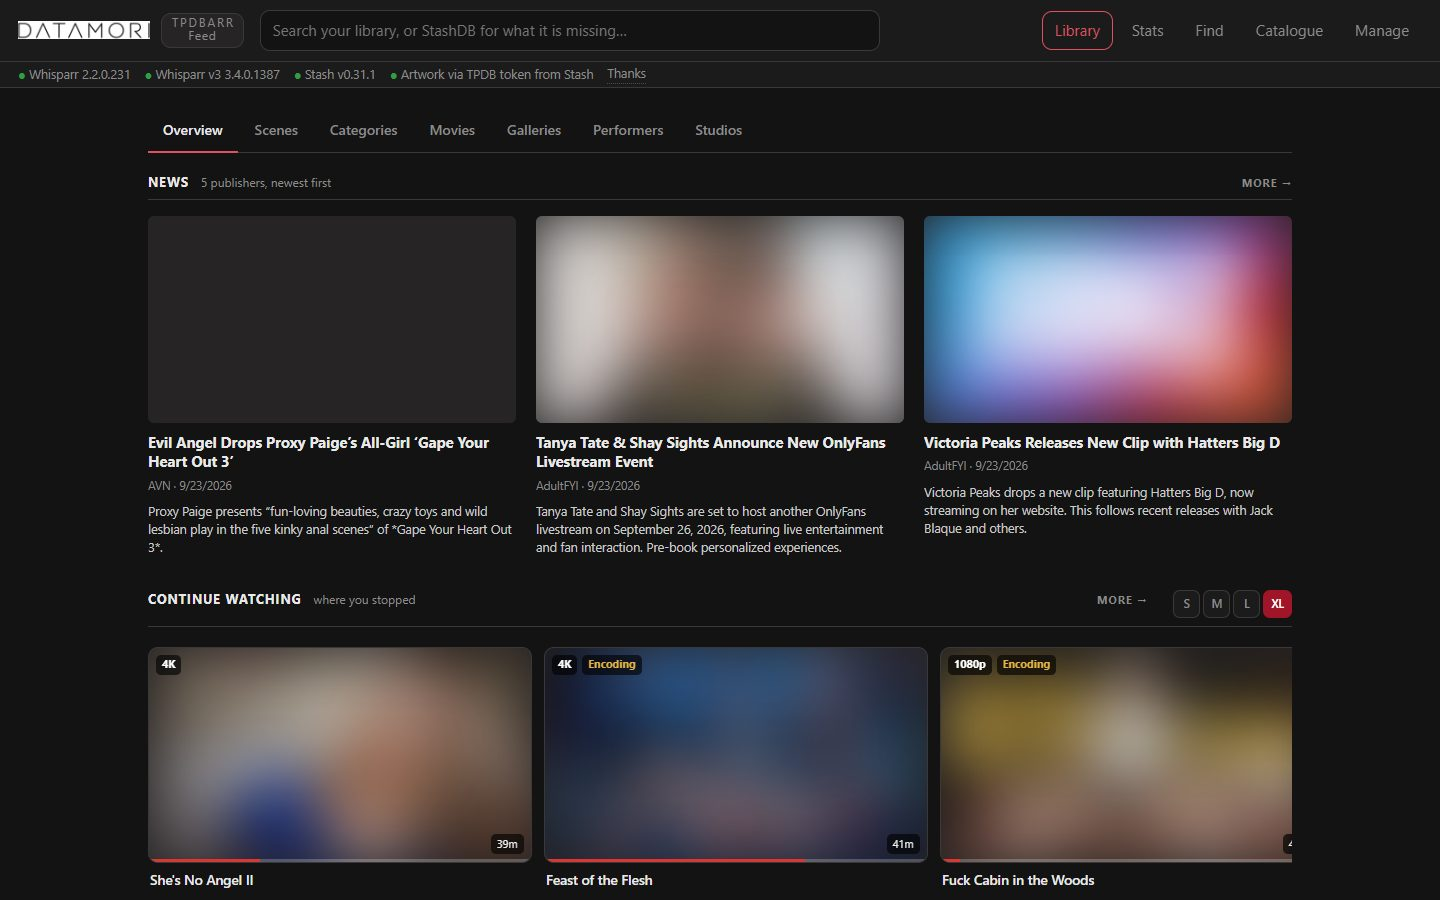
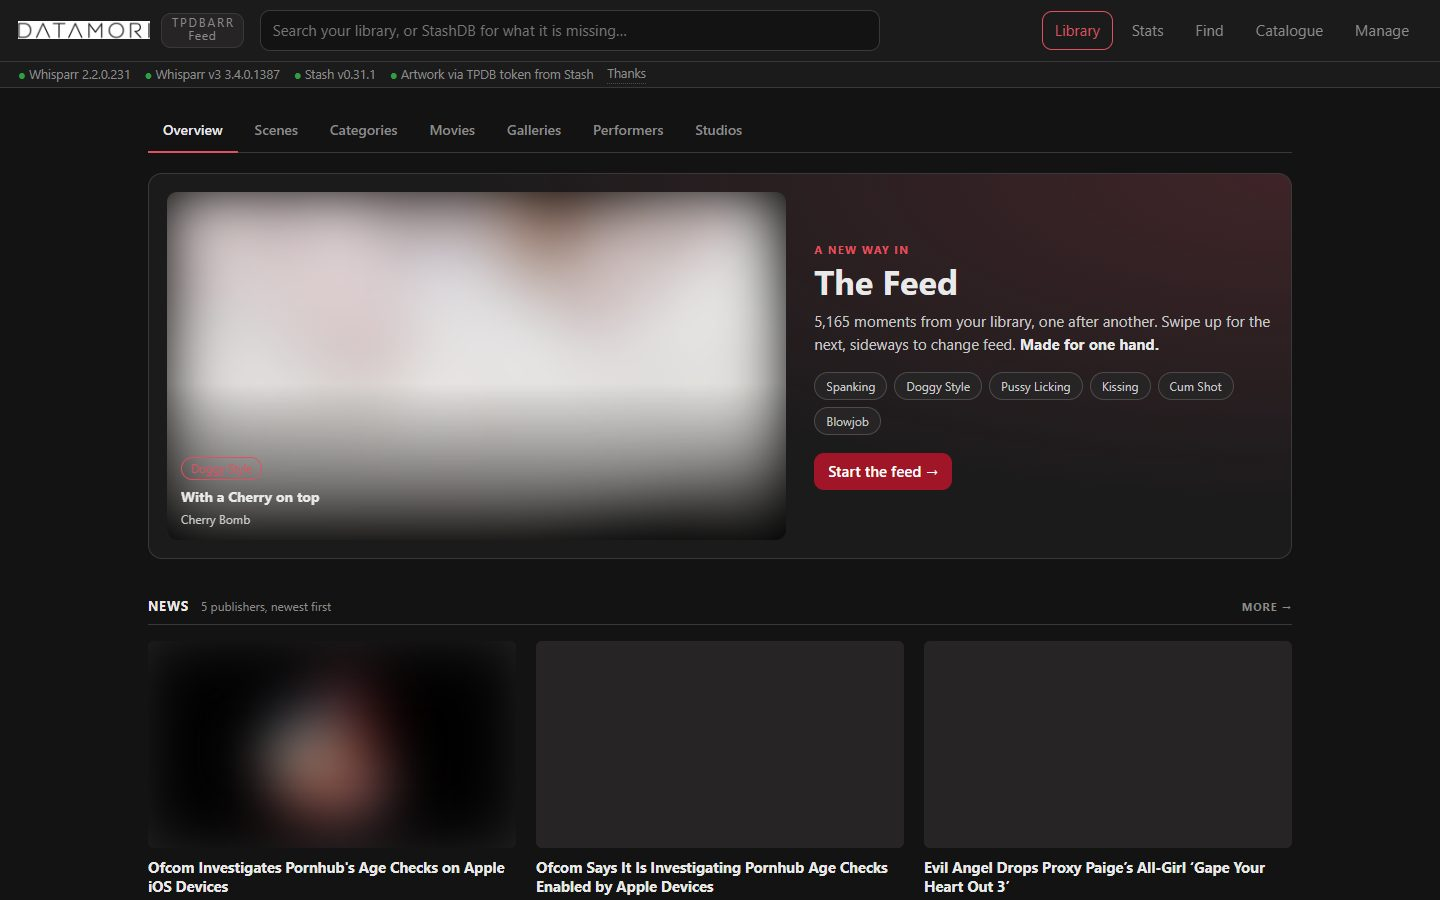
Overview: the Feed as the highlight, with a live preview of your markers

diff --git a/portal/public/library/overview.js b/portal/public/library/overview.js
@@ -44,6 +44,7 @@ export async function showOverview() {
     ];
 
     shell('#/library',
+      feedHero(),
       newsBand(),
       ordered.map(sceneSection)
     );
@@ -51,6 +52,96 @@ export async function showOverview() {
     if (!holds(mine)) return;
     failedIn('#/library', err);
   }
+}
+
+/* ------------------------------------------------------------- the feed
+ *
+ * The highlight, above even the news: the Feed is the new way into the
+ * library — the moments rather than the films, one after another, a thumb to
+ * move on — and a link in the top bar was not selling it.
+ *
+ * The preview is the real thing, muted: marker clips from the same endpoint
+ * the reel reads, each played for a few seconds and then swapped for the next.
+ * Ours first, Stash's if ours is not cut yet, and a clip that plays neither is
+ * skipped rather than left as a black box.
+ *
+ * Its timer outlives the render, so every tick checks the video is still on
+ * the page and stops for good when it is not. Leaving the Overview is the
+ * teardown; nothing has to remember to call one.
+ */
+const TEASE_MS = 6000;
+
+function feedHero() {
+  const video = el('video', { className: 'fhvideo', muted: true, playsInline: true, loop: true, autoplay: true });
+  video.muted = true;
+  const caption = el('div', { className: 'fhcaption' });
+  const count = el('span', {}, 'Your markers');
+  const chips = el('div', { className: 'fhchips' });
+
+  const go = (query = '') => { location.hash = '#/binge?feed=library' + query; };
+  const start = el('button', { className: 'primary fhstart', type: 'button' }, 'Start the feed ', el('span', {}, '→'));
+  start.onclick = () => go();
+
+  const screen = el('div', { className: 'fhscreen', title: 'Open the Feed' }, video, caption);
+  screen.onclick = () => go();
+
+  const hero = el('section', { className: 'feedhero' },
+    screen,
+    el('div', { className: 'fhtext' },
+      el('div', { className: 'fhkicker' }, 'A new way in'),
+      el('h2', { className: 'fhtitle' }, 'The Feed'),
+      el('p', { className: 'fhlede' },
+        count, ' from your library, one after another. Swipe up for the next, sideways to change feed. ',
+        el('b', {}, 'Made for one hand.')),
+      chips,
+      start)
+  );
+
+  const seed = String(Math.floor(Math.random() * 1e9));
+  Promise.all([
+    api(`/api/library/reel?feed=library&seed=${seed}&page=1`),
+    api('/api/library/reel/tags').catch(() => ({ tags: [] })),
+  ]).then(([reel, { tags }]) => {
+    const items = (reel.items || []).filter((i) => i.kind === 'marker');
+    if (reel.count) count.textContent = `${reel.count.toLocaleString()} moments`;
+    if (!items.length) { screen.remove(); return; }
+
+    // The tags this page of the shuffle is actually made of, most common first.
+    const ids = new Map(tags.map((t) => [t.name, t.id]));
+    const tally = new Map();
+    for (const i of items) if (ids.has(i.tag)) tally.set(i.tag, (tally.get(i.tag) || 0) + 1);
+    [...tally].sort((a, b) => b[1] - a[1]).slice(0, 6).forEach(([name]) => {
+      const chip = el('button', { className: 'fhchip', type: 'button' }, name);
+      chip.onclick = () => go('&tag=' + ids.get(name));
+      chips.append(chip);
+    });
+
+    let at = -1;
+    let timer = null;
+    const next = () => {
+      clearTimeout(timer);
+      if (!video.isConnected) return;
+      at = (at + 1) % items.length;
+      const item = items[at];
+      const fallback = `/media/scene/${item.sceneId}/marker/${item.id}/stream`;
+      video.onerror = () => {
+        if (video.getAttribute('src') !== fallback) video.src = fallback;
+        else next();
+      };
+      video.poster = `/media/scene/${item.sceneId}/marker/${item.id}/screenshot`;
+      video.src = `/media/marker/${item.id}/clip`;
+      video.play().catch(() => {});
+      caption.replaceChildren(
+        item.tag ? el('span', { className: 'fhtag' }, item.tag) : null,
+        el('span', { className: 'fhscene' }, item.scene?.title || ''),
+        el('span', { className: 'fhwho' }, (item.scene?.performers || []).map((p) => p.name).join(', '))
+      );
+      timer = setTimeout(next, TEASE_MS);
+    };
+    next();
+  }).catch(() => screen.remove());
+
+  return hero;
 }
 
 /* ------------------------------------------------------------------ news

diff --git a/portal/public/css/090-overview.css b/portal/public/css/090-overview.css
@@ -404,3 +404,97 @@ a.metric:hover { border-color: var(--accent-hi); }
 .candbody .meta { font-size: 11.5px; color: var(--muted); }
 .candbody .act { justify-content: center; }
 
+
+/* ------------------------------------------------------------ the feed
+ *
+ * The one thing on the Overview drawn big and in colour: the Feed, sold with
+ * itself. A screen of live marker clips on the left, the pitch on the right,
+ * stacked on a phone with the screen first — that is where it gets used.
+ */
+.feedhero {
+  display: grid;
+  grid-template-columns: minmax(0, 1.35fr) minmax(0, 1fr);
+  gap: 28px;
+  align-items: center;
+  margin: 4px 0 38px;
+  padding: 18px;
+  border: 1px solid var(--line);
+  border-radius: 14px;
+  background:
+    radial-gradient(120% 140% at 100% 0%, var(--accent-wash), transparent 60%),
+    var(--panel);
+}
+
+.fhscreen {
+  position: relative;
+  aspect-ratio: 16 / 9;
+  overflow: hidden;
+  border-radius: 10px;
+  background: #000;
+  cursor: pointer;
+}
+.fhvideo { width: 100%; height: 100%; object-fit: cover; display: block; }
+.fhscreen::after {
+  content: '';
+  position: absolute;
+  inset: 0;
+  background: linear-gradient(to top, rgba(0, 0, 0, 0.72), transparent 45%);
+  pointer-events: none;
+}
+
+.fhcaption {
+  position: absolute;
+  left: 14px;
+  right: 14px;
+  bottom: 12px;
+  z-index: 1;
+  display: flex;
+  flex-direction: column;
+  align-items: flex-start;
+  gap: 3px;
+}
+.fhtag {
+  padding: 2px 9px;
+  margin-bottom: 3px;
+  border: 1px solid var(--accent-hi);
+  border-radius: 999px;
+  font-size: 11.5px;
+  color: var(--accent-hi);
+}
+.fhscene { font-weight: 700; font-size: 14px; }
+.fhwho { font-size: 12px; color: var(--text-2); }
+
+.fhkicker {
+  font-size: 11px;
+  font-weight: 700;
+  letter-spacing: 0.12em;
+  text-transform: uppercase;
+  color: var(--accent-hi);
+}
+.fhtitle { margin: 6px 0 10px; font-size: 34px; line-height: 1.05; }
+.fhlede { margin: 0 0 16px; color: var(--text-2); line-height: 1.55; }
+.fhlede b { color: var(--text); }
+
+.fhchips { display: flex; flex-wrap: wrap; gap: 7px; margin-bottom: 18px; }
+.fhchips:empty { display: none; }
+.fhchip {
+  padding: 4px 11px;
+  border: 1px solid var(--line-hi);
+  border-radius: 999px;
+  background: var(--panel-2);
+  font: inherit;
+  font-size: 12px;
+  color: var(--text-2);
+  cursor: pointer;
+}
+.fhchip:hover { border-color: var(--accent-hi); color: var(--accent-hi); }
+
+.fhstart { font-size: 15px; padding: 10px 20px; }
+.fhstart span { display: inline-block; transition: transform 0.15s; }
+.fhstart:hover span { transform: translateX(3px); }
+
+@media (max-width: 760px) {
+  .feedhero { grid-template-columns: 1fr; gap: 16px; padding: 12px; }
+  .fhtitle { font-size: 28px; }
+  .fhstart { width: 100%; }
+}

diff --git a/portal/README.md b/portal/README.md
@@ -44,7 +44,7 @@ Pictures are blurred on purpose — this is an adult library.
 
 ### Library
 
-**Overview — news, continue watching**
+**Overview — the Feed up top, then news and continue watching**
 
 ![Library — Overview — news, continue watching](../docs/screenshots/library-overview.jpg)
 

diff --git a/README.md b/README.md
@@ -46,7 +46,7 @@ Pictures are blurred on purpose — this is an adult library.
 
 ### Library
 
-**Overview — news, continue watching**
+**Overview — the Feed up top, then news and continue watching**
 
 ![Library — Overview — news, continue watching](docs/screenshots/library-overview.jpg)
 
